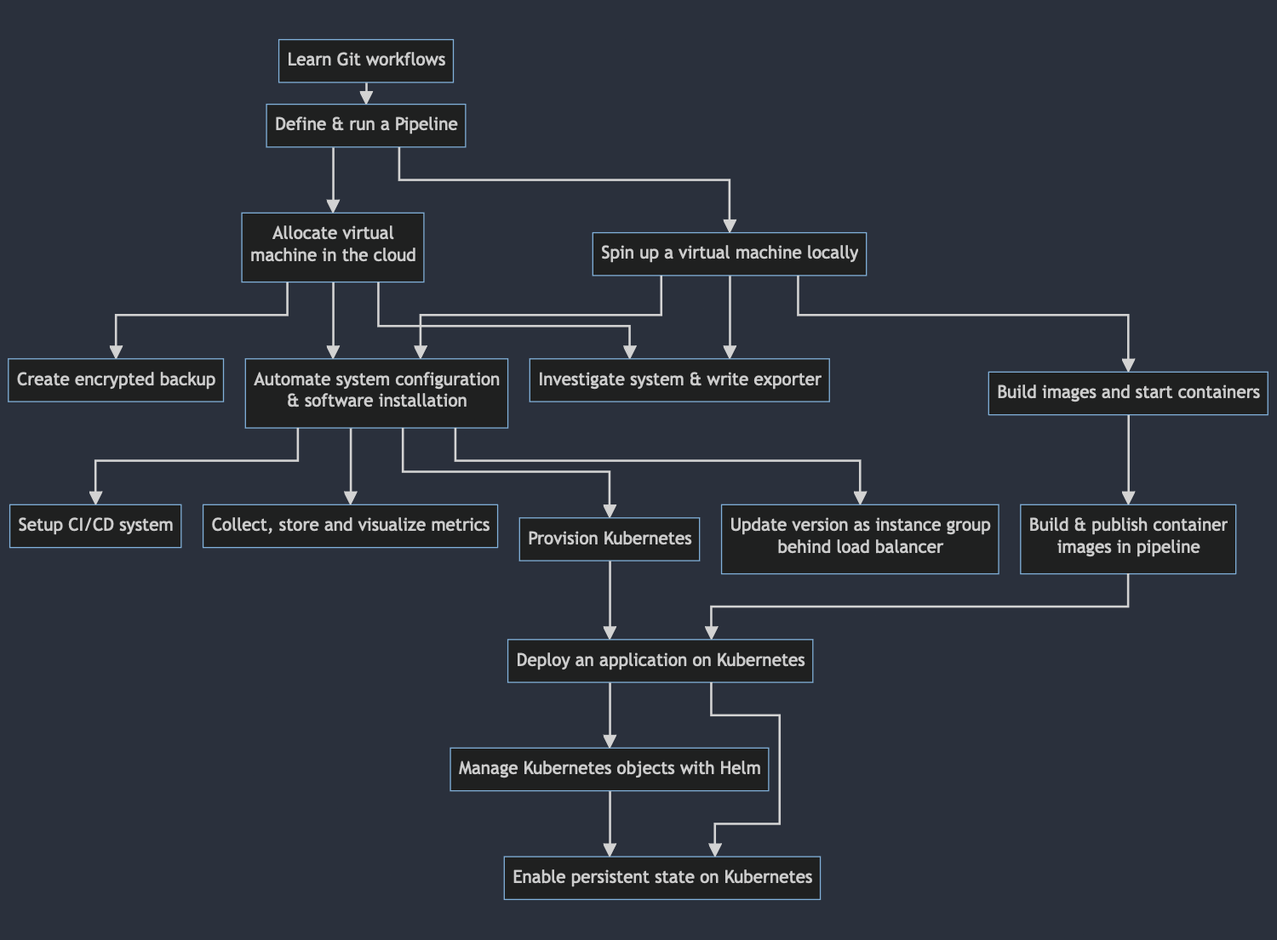
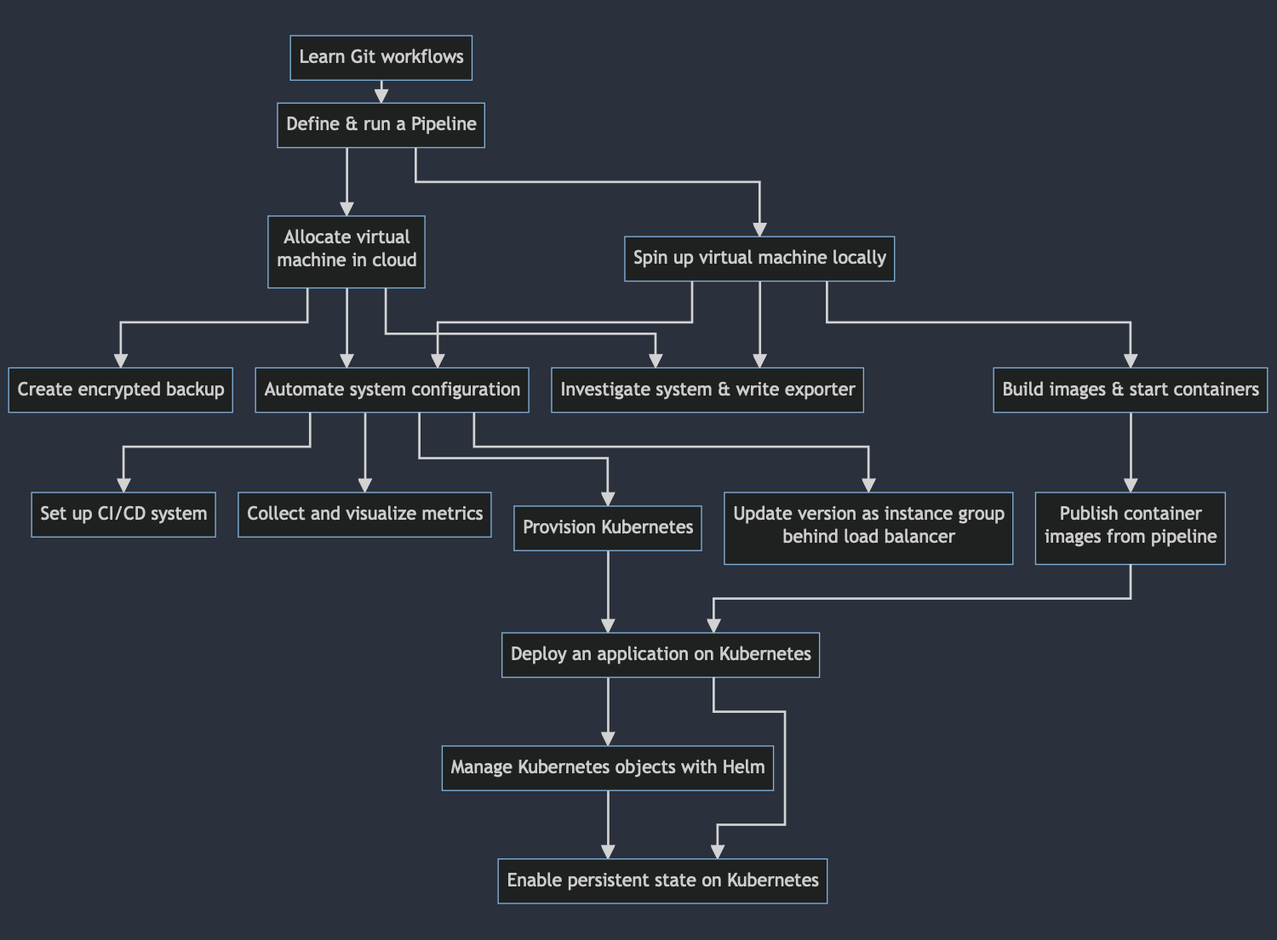
content: rename tutorial to more consistent names

Changed region(s): [[0.0, 0.0308, 1.0, 0.9846]]

diff --git a/content/lessons/_index.md b/content/lessons/_index.md
@@ -21,20 +21,20 @@ being discussed.
 {{< /hint >}}
 
 
-| Topic                                                                                               | Objectives                                                                                      | Technologies                                                            | Activities(s)                                                                                                                                                                                    |
-|-----------------------------------------------------------------------------------------------------|-------------------------------------------------------------------------------------------------|-------------------------------------------------------------------------|--------------------------------------------------------------------------------------------------------------------------------------------------------------------------------------------------|
-| Course Onboarding                                                                                   | Organizational Stuff, Expectation Management, Grading                                           | *N/A*                                                                   | 🗣 Sticky-notes session                                                                                                                                                                          |
-| [What is DevOps and what is it not?]({{< relref "./topics/what-is-devops" >}})                      | DevOps culture, Agile, Site Reliability Engineering                                             | *N/A*                                                                   | 💡 [Learn Git Branching](https://learngitbranching.js.org)                                                                                                                                       |
-| [DevOps Principles]({{< relref "./topics/devops-principles" >}})                                    | [Configuration, Infrastructure]-as-Code, Automation, Dependency Management, Software life cycle | *N/A*                                                                   | 🙌 Demonstrate [*showcase*](https://gitlab.bht-berlin.de/fb6-wp11-devops/showcase)                                                                                                               |
-| [Twelve-Factor App]({{< relref "./topics/twelve-factors" >}})                                       | Understand the 12 factors and how to satisfy them                                               | *N/A*                                                                   | 🗣 Assess Twelve-Factor compliance of an example app; 💡 [Install]({{< ref "/tutorials/install-tool-chain" >}})                                                                                  |
-| [Continuous Automation]({{< relref "./topics/continuous-automation" >}})                            | CI/CD, Triggers, GitOps                                                                         | Jenkins, GitLab, Github Actions                                         | 💡 [Define and run a pipeline]({{< ref "/tutorials/define-and-run-pipeline" >}})                                                                                                                 |
-| [Virtualization vs. Containerization]({{< relref "./topics/virtualization-vs-containerization" >}}) | Differences - similar patterns - usage, hypervisors, container engines, build tools             | Docker, Podman, Buildah, VirtualBox, QEMU, Packer                       | 💡 [Spin up a virtual machine locally]({{< ref "/tutorials/spin-up-virtual-machine-locally" >}})                                                                                                 |
-| [Cloud Infrastructure]({{< relref "./topics/cloud-infrastructure" >}})                              | What classifies as Infrastructure, Public vs. Private cloud, XaaS                               | Compute & Network & Storage; AWS, GCP, DigitalOcean                     | 💡 [Build a container image and start a container]({{< ref "/tutorials/build-container-image-and-start-container" >}})                                                                           |
-| [Infrastructure Allocation]({{< relref "./topics/infrastructure-allocation">}})                     | infrastructure life cycle, apply Infrastructure-as-Code                                         | OpenTofu/Terraform, Pulumi                                              | 💡 [Allocate and access a virtual machine in the cloud]({{< ref "/tutorials/allocate-machine-in-cloud" >}})                                                                                      |
-| [Configuration Management]({{< relref "./topics/configuration-management" >}})                      | Apply Config-as-Code, giving a machine its purpose                                              | Ansible                                                                 | 💡 [Automate service installation & configuration]({{< ref "/tutorials/automate-system-configuration" >}})                                                                                       |
-| [Deployment Strategies]({{< relref "./topics/deployment-strategies" >}})                            | Resilience, Zero-downtime deployment, Service Discovery, Load balancing                         | Nginx, consul, DNS                                                      | 💡 [Update an instance group of an app behind a load balancer]({{< ref "/tutorials/update-version-as-instance-group" >}})                                                                        |
-| [Container Orchestration]({{< relref "./topics/container-orchestration" >}})                        | Purpose, implementations, market, basic usage                                                   | Kubernetes                                                              | 💡 [Deploy an application on Kubernetes and make it available from the outside]({{< ref "/tutorials/become-familiar-with-kubernetes" >}})                                                        |
-| [Advanced Kubernetes]({{< relref "./topics/advanced-kubernetes" >}})                                | Architecture, Concepts & Features, Tooling                                                      | Helm                                                                    | 💡 [Deploy an application with Helm]({{< ref "/tutorials/deploy-workload-with-helm" >}}); 💡 [Provision Kubernetes]({{< ref "/tutorials/provision-kubernetes" >}})                               |
-| [Monitoring & Observability]({{< relref "./topics/monitoring-and-observability" >}})                | Logging, Metrics, Alerts, Tracing, System health, Exporter vs. Collector, push vs. pull         | Prometheus, Grafana, Alertmanager, EFK (Elasticsearch, Fluentd, Kibana) | 💡 [Collect & visualize metrics]({{< ref "/tutorials/collect-and-visualize-metrics" >}}); 💡 [Investigate system status & write an exporter]({{< ref "/tutorials/investigate-system-status" >}}) |
-| [Persistence & Backups]({{< relref "./topics/persistence-and-backups" >}})                          | distributed, storage, storage types, backup strategies                                          | AWS S3, NFS, Ceph                                                       | 💡 [Encrypt and store a backup offsite]({{< ref "/tutorials/create-encrypted-backup" >}})                                                                                                        |
-| [Dev-Security-Ops]({{< relref "./topics/dev-security-ops" >}})                                      | account types, secret & permission management, Identity Provider, 2-Factor-Auth                 | Sops, Vault, SSH, `.gitignore`                                          | *N/A*                                                                                                                                                                                            | 
+| Topic                                                                                               | Objectives                                                                                      | Technologies                                                            | Activities(s)                                                                                                                                                                                                                                                   |
+|-----------------------------------------------------------------------------------------------------|-------------------------------------------------------------------------------------------------|-------------------------------------------------------------------------|-----------------------------------------------------------------------------------------------------------------------------------------------------------------------------------------------------------------------------------------------------------------|
+| Course Onboarding                                                                                   | Organizational Stuff, Expectation Management, Grading                                           | *N/A*                                                                   | 🗣 Sticky notes session                                                                                                                                                                                                                                         |
+| [What is DevOps and what is it not?]({{< relref "./topics/what-is-devops" >}})                      | DevOps culture, Agile, Site Reliability Engineering                                             | *N/A*                                                                   | 💡 [Learn Git Branching](https://learngitbranching.js.org)                                                                                                                                                                                                      |
+| [DevOps Principles]({{< relref "./topics/devops-principles" >}})                                    | [Configuration, Infrastructure]-as-Code, Automation, Dependency Management, Software life cycle | *N/A*                                                                   | 🙌 Demonstrate [*showcase*](https://gitlab.bht-berlin.de/fb6-wp11-devops/showcase)                                                                                                                                                                              |
+| [Twelve-Factor App]({{< relref "./topics/twelve-factors" >}})                                       | Understand the 12 factors and how to satisfy them                                               | *N/A*                                                                   | 🗣 Assess Twelve-Factor compliance of an example app; 💡 [({{< page-title "/tutorials/install-tool-chain" >}}]({{< ref "/tutorials/install-tool-chain" >}})                                                                                                     |
+| [Continuous Automation]({{< relref "./topics/continuous-automation" >}})                            | CI/CD, Triggers, GitOps                                                                         | Jenkins, GitLab, Github Actions                                         | 💡 [{{< page-title "/tutorials/define-and-run-pipeline" >}}]({{< ref "/tutorials/define-and-run-pipeline" >}})                                                                                                                                                  |
+| [Virtualization vs. Containerization]({{< relref "./topics/virtualization-vs-containerization" >}}) | Differences - similar patterns - usage, hypervisors, container engines, build tools             | Docker, Podman, Buildah, VirtualBox, QEMU, Packer                       | 💡 [{{< page-title "/tutorials/spin-up-virtual-machine-locally" >}}y]({{< ref "/tutorials/spin-up-virtual-machine-locally" >}})                                                                                                                                 |
+| [Cloud Infrastructure]({{< relref "./topics/cloud-infrastructure" >}})                              | What classifies as Infrastructure, Public vs. Private cloud, XaaS                               | Compute & Network & Storage; AWS, GCP, DigitalOcean                     | 💡 [{{< page-title "/tutorials/build-images-and-start-containers" >}}]({{< ref "/tutorials/build-images-and-start-containers" >}})                                                                                                                              |
+| [Infrastructure Allocation]({{< relref "./topics/infrastructure-allocation">}})                     | infrastructure life cycle, apply Infrastructure-as-Code                                         | OpenTofu/Terraform, Pulumi                                              | 💡 [{{< page-title "/tutorials/allocate-virtual-machine-in-cloud" >}}]({{< ref "/tutorials/allocate-virtual-machine-in-cloud" >}})                                                                                                                              |
+| [Configuration Management]({{< relref "./topics/configuration-management" >}})                      | Apply Config-as-Code, giving a machine its purpose                                              | Ansible                                                                 | 💡 [{{< page-title "/tutorials/automate-system-configuration" >}}]({{< ref "/tutorials/automate-system-configuration" >}}); 💡 [{{< page-title "/tutorials/set-up-cicd-system" >}}]({{< ref "/tutorials/set-up-cicd-system" >}})                                |
+| [Deployment Strategies]({{< relref "./topics/deployment-strategies" >}})                            | Resilience, Zero-downtime deployment, Service Discovery, Load balancing                         | Nginx, consul, DNS                                                      | 💡 [{{< page-title "/tutorials/update-version-as-instance-group" >}}]({{< ref "/tutorials/update-version-as-instance-group" >}})                                                                                                                                |
+| [Container Orchestration]({{< relref "./topics/container-orchestration" >}})                        | Purpose, implementations, market, basic usage                                                   | Kubernetes                                                              | 💡 [{{< page-title "/tutorials/deploy-app-on-kubernetes" >}}]({{< ref "/tutorials/deploy-app-on-kubernetes" >}})                                                                                                                                                |
+| [Advanced Kubernetes]({{< relref "./topics/advanced-kubernetes" >}})                                | Architecture, Concepts & Features, Tooling                                                      | Helm                                                                    | 💡 [{{< page-title "/tutorials/manage-kubernetes-objects-with-helm" >}}]({{< ref "/tutorials/manage-kubernetes-objects-with-helm" >}}); 💡 [{{< page-title "/tutorials/provision-kubernetes" >}}]({{< ref "/tutorials/provision-kubernetes" >}})                |
+| [Monitoring & Observability]({{< relref "./topics/monitoring-and-observability" >}})                | Logging, Metrics, Alerts, Tracing, System health, Exporter vs. Collector, push vs. pull         | Prometheus, Grafana, Alertmanager, EFK (Elasticsearch, Fluentd, Kibana) | 💡 [{{< page-title "/tutorials/collect-and-visualize-metrics" >}}]({{< ref "/tutorials/collect-and-visualize-metrics" >}}); 💡 [{{< ref "/tutorials/investigate-system-and-write-exporter" >}}]({{< ref "/tutorials/investigate-system-and-write-exporter" >}}) |
+| [Persistence & Backups]({{< relref "./topics/persistence-and-backups" >}})                          | distributed, storage, storage types, backup strategies                                          | AWS S3, NFS, Ceph                                                       | 💡 [{{< page-title "/tutorials/create-encrypted-backup" >}}]({{< ref "/tutorials/create-encrypted-backup" >}}); 💡 [{{< page-title "/tutorials/persist-state-on-kubernetes" >}}]({{< ref "/tutorials/persist-state-on-kubernetes" >}})                          |
+| [Dev-Security-Ops]({{< relref "./topics/dev-security-ops" >}})                                      | account types, secret & permission management, Identity Provider, 2-Factor-Auth                 | Sops, Vault, SSH, `.gitignore`                                          | *N/A*                                                                                                                                                                                                                                                           | 

diff --git a/content/tutorials/manage-kubernetes-objects-with-helm.md b/content/tutorials/manage-kubernetes-objects-with-helm.md
@@ -1,9 +1,9 @@
 ---
-title: 'Deploy Kubernetes objects with Helm'
+title: 'Manage Kubernetes objects with Helm'
 ---
 
 
-Deploy Kubernetes objects with Helm
+Manage Kubernetes objects with Helm
 ===================================
 
 
@@ -17,7 +17,7 @@ Deploy Kubernetes objects with Helm
 ## Prerequisites
 
 * Tutorial: [{{< page-title "./update-version-as-instance-group" >}}]({{< relref "./update-version-as-instance-group" >}})
-* Tutorial: [{{< page-title "./become-familiar-with-kubernetes" >}}]({{< relref "./become-familiar-with-kubernetes" >}}) 
+* Tutorial: [{{< page-title "./deploy-app-on-kubernetes" >}}]({{< relref "./deploy-app-on-kubernetes" >}}) 
 * [Helm](https://helm.sh/docs/intro/install/) is installed on your workstation
 * [SOPS](https://github.com/mozilla/sops#download) is installed on your workstation (and optionally [GPG](https://www.gnupg.org/download/))
 * [Helm plugin to integrate SOPS](https://github.com/jkroepke/helm-secrets) is installed on your workstation
@@ -52,7 +52,7 @@ Deploy Kubernetes objects with Helm
 ## Solution: Edu cluster {id="solution-edu-cluster"}
 
 *Source code can be found
-[here](https://github.com/lucendio/lecture-devops-code/tree/master/tutorials/09_deploy-workload-with-helm/edu-cluster).*
+[here](https://github.com/lucendio/lecture-devops-code/tree/master/tutorials/manage-kubernetes-objects-with-helm/edu-cluster).*
 
 
 ### (1) Create a chart using an iterative approach   
@@ -210,12 +210,12 @@ configurable via Helm values if needed.
 ## Solution: Minikube {id="solution-minikube"}
 
 *Source code can be found
-[here](https://github.com/lucendio/lecture-devops-code/tree/master/tutorials/09_deploy-workload-with-helm/edu-cluster/minikube).*
+[here](https://github.com/lucendio/lecture-devops-code/tree/master/tutorials/manage-kubernetes-objects-with-helm/edu-cluster/minikube).*
 
 
 ### (0) Preparations
 
-Please refer to the [*Preparations* section of the previous tutorial]({{< relref "./become-familiar-with-kubernetes#0-prep-minikube" >}}).
+Please refer to the [*Preparations* section of the previous tutorial]({{< relref "./deploy-app-on-kubernetes#0-prep-minikube" >}}).
 
 
 ### (1) Create a chart using an iterative approach   

diff --git a/content/tutorials/automate-system-configuration.md b/content/tutorials/automate-system-configuration.md
@@ -3,8 +3,8 @@ title: 'Automate system configuration'
 ---
 
 
-Automate service installation and apply configuration to a machine
-==================================================================
+Automate system configuration and software installation
+=======================================================
 
 
 ## Objectives
@@ -19,7 +19,7 @@ Automate service installation and apply configuration to a machine
 * Configuration Management tool is installed (e.g. Ansible, but note [on Windows, it's only supported to run in WSL](https://docs.ansible.com/ansible/latest/user_guide/windows_faq.html#can-ansible-run-on-windows))
 * virtual machine with SSH access - either locally or in the cloud (see tutorials 
   [Spin up a virtual machine locally]({{< relref "./spin-up-virtual-machine-locally" >}})
-  or [Allocate a virtual machine in the cloud]({{< relref "./allocate-machine-in-cloud" >}}))
+  or [Allocate a virtual machine in the cloud]({{< relref "./allocate-virtual-machine-in-cloud" >}}))
 
 
 ## Tasks
@@ -40,12 +40,12 @@ Automate service installation and apply configuration to a machine
 
 *Please note that this solution uses [Ansible](https://docs.ansible.com/ansible/latest/installation_guide/)
 and a [local machine]({{< relref "./spin-up-virtual-machine-locally" >}}). Source code can be found
-[here](https://github.com/lucendio/lecture-devops-code/tree/master/tutorials/04_automate-system-configuration).*
+[here](https://github.com/lucendio/lecture-devops-code/tree/master/tutorials/automate-system-configuration).*
 
 
 ### (0) Preparations
 
-* create an SSH key pair, if necessary (see [this]({{< relref "./allocate-machine-in-cloud" >}}) tutorial for more
+* create an SSH key pair, if necessary (see [this]({{< relref "./allocate-virtual-machine-in-cloud" >}}) tutorial for more
   details)
 * spin up a virtual machine, if not already running
 * create and customize `ansible.cfg` if needed, e.g.:

diff --git a/content/tutorials/provision-kubernetes.md b/content/tutorials/provision-kubernetes.md
@@ -16,9 +16,9 @@ Provision Kubernetes
 
 ## Prerequisites
 
-* Tutorial: [{{< page-title "./allocate-machine-in-cloud" >}}]({{< relref "./allocate-machine-in-cloud" >}})
+* Tutorial: [{{< page-title "./allocate-virtual-machine-in-cloud" >}}]({{< relref "./allocate-virtual-machine-in-cloud" >}})
 * Tutorial: [{{< page-title "./automate-system-configuration" >}}]({{< relref "./automate-system-configuration" >}})
-* Tutorial: [{{< page-title "./become-familiar-with-kubernetes" >}}]({{< relref "./become-familiar-with-kubernetes" >}})
+* Tutorial: [{{< page-title "./deploy-app-on-kubernetes" >}}]({{< relref "./deploy-app-on-kubernetes" >}})
 
 ## Tasks
 
@@ -45,7 +45,7 @@ Provision Kubernetes
 
 *Please note that this solution makes use of [Kubespray](https://github.com/kubernetes-sigs/kubespray)
 and AWS. Source code can be found
-[here](https://github.com/lucendio/lecture-devops-code/tree/master/tutorials/10_provision-kubernetes).*
+[here](https://github.com/lucendio/lecture-devops-code/tree/master/tutorials/provision-kubernetes).*
 
 
 ### (0) Preparations
@@ -91,7 +91,7 @@ chmod 600 ./.ssh/operator*
 tofu init
 ```
 {{< hint >}}
-Please refer to tutorials like [*Allocate a virtual machine in the cloud*]({{< relref "./allocate-machine-in-cloud" >}})
+Please refer to tutorials like [*Allocate a virtual machine in the cloud*]({{< relref "./allocate-virtual-machine-in-cloud" >}})
 for details on how to manage infrastructure resources with OpenTofu.
 {{< /hint >}}
 

diff --git a/content/tutorials/deploy-app-on-kubernetes.md b/content/tutorials/deploy-app-on-kubernetes.md
@@ -1,9 +1,9 @@
 ---
-title: 'Become familiar with Kubernetes'
+title: 'Deploy app on Kubernetes'
 ---
 
-Become familiar with Kubernetes
-===============================
+Deploy an app on Kubernetes and make it accessible to the outside
+=================================================================
 
 
 ## Objectives
@@ -53,7 +53,7 @@ __For more tutorials, please refer to the [official documentation](https://kuber
 *Please note that this solution is loosely based on a set of tasks written in 
 the [official documentation](https://kubernetes.io/docs/tasks/). Source code
 can be found
-[here](https://github.com/lucendio/lecture-devops-code/tree/master/tutorials/08_become-familiar-with-kubernetes/edu-cluster).*
+[here](https://github.com/lucendio/lecture-devops-code/tree/master/tutorials/deploy-app-on-kubernetes/edu-cluster).*
 
 
 ### (0) Preparations {id="0-prep-edu-cluster"}
@@ -265,7 +265,7 @@ which will then delete all associated objects.
 *Please note that this solution is loosely based on a set of tasks written in 
 the [official documentation](https://kubernetes.io/docs/tasks/). Source code
 can be found
-[here](https://github.com/lucendio/lecture-devops-code/tree/master/tutorials/08_become-familiar-with-kubernetes/minikube).*
+[here](https://github.com/lucendio/lecture-devops-code/tree/master/tutorials/deploy-app-on-kubernetes/minikube).*
 
 
 ### (0) Preparations {id="0-prep-minikube"}

diff --git a/content/tutorials/publish-container-images-from-pipeline.md b/content/tutorials/publish-container-images-from-pipeline.md
@@ -1,10 +1,10 @@
 ---
-title: 'Publish a container image from CI/CD'
+title: 'Publish container images from pipeline'
 ---
 
 
-Build & publish a container image from CI/CD
-============================================
+Build & publish a container image from CI/CD pipeline
+=====================================================
 
 
 ## Objectives
@@ -15,8 +15,8 @@ Build & publish a container image from CI/CD
 
 ## Prerequisites
 
-* Tutorial: [Define & run a pipeline]({{< relref "./define-and-run-pipeline" >}})
-* Tutorial: [Build a container image & start a container]({{< relref "./build-container-image-and-start-container" >}})
+* Tutorial: [{{< page-title "./define-and-run-pipeline" >}}]({{< relref "./define-and-run-pipeline" >}})
+* Tutorial: [{{< page-title "./build-images-and-start-containers" >}}]({{< relref "./build-images-and-start-containers" >}})
 
 
 ## Remarks
@@ -48,7 +48,7 @@ Depending on the CI/CD agent, you may face the docker-in-docker dilemma (see las
 
 *Please note that this solution utilizes the automation platform GitLab. Source code
 can be found
-[here](https://github.com/lucendio/lecture-devops-code/tree/master/tutorials/publish-container-image-from-pipeline).*
+[here](https://github.com/lucendio/lecture-devops-code/tree/master/tutorials/publish-container-images-from-pipeline).*
 
 
 ### (0) Preparations

diff --git a/content/tutorials/_index.md b/content/tutorials/_index.md
@@ -51,31 +51,30 @@ and resources.
 flowchart TB
     1[Learn Git workflows]
     2[Define & run a Pipeline]
-    3[Spin up a virtual machine locally]
-    4[Build images and start containers]
+    3[Spin up virtual machine locally]
+    4[Build images & start containers]
     5[
         Allocate virtual
-        machine in the cloud
+        machine in cloud
     ]
     6[
         Automate system configuration
-        & software installation
     ]
-    7[Setup CI/CD system]
+    7[Set up CI/CD system]
     8[
         Update version as instance group
         behind load balancer
     ]
     9[
-        Build & publish container
-        images in pipeline
+        Publish container
+        images from pipeline
     ]
     10[Provision Kubernetes]
     11[Deploy an application on Kubernetes]
     12[Manage Kubernetes objects with Helm]
-    13[Collect, store and visualize metrics]
+    13[Collect and visualize metrics]
     14[Investigate system & write exporter]
-    15[Enable persistent state on Kubernetes]
+    15[Persist state on Kubernetes]
     16[Create encrypted backup]
     
     1 --> 2

diff --git a/content/tutorials/set-up-cicd-system.md b/content/tutorials/set-up-cicd-system.md
@@ -1,5 +1,5 @@
 --- 
-title: 'Install & set up a CI/CD system'
+title: 'Set up CI/CD system'
 ---
 
 
@@ -46,7 +46,7 @@ on [Docker & JcaC](https://www.digitalocean.com/community/tutorials/how-to-autom
 
 *Please note that this solution is based on a local approach utilizing Vagrant and
 reusing an Ansible Role. Source code can be found
-[here](https://github.com/lucendio/lecture-devops-code/tree/master/tutorials/06_set-up-cicd-system)*
+[here](https://github.com/lucendio/lecture-devops-code/tree/master/tutorials/set-up-cicd-system)*
 
 
 ### (0) Preparations
@@ -56,7 +56,7 @@ tutorials and take your pick - local (Vagrant) or remote (AWS).
 
 Please note, that the
 [`Vagrantfile`](https://github.com/lucendio/lecture-devops-code/blob/master/tutorials/06_set-up-cicd-system/Vagrantfile)
-in [this folder](https://github.com/lucendio/lecture-devops-code/tree/master/tutorials/06_set-up-cicd-system)
+in [this folder](https://github.com/lucendio/lecture-devops-code/tree/master/tutorials/set-up-cicd-system)
 requires an additional plugin to be installed:
 
 ```bash

diff --git a/content/tutorials/spin-up-virtual-machine-locally.md b/content/tutorials/spin-up-virtual-machine-locally.md
@@ -1,5 +1,5 @@
 ---
-title: 'Spin up a virtual machine locally'
+title: 'Spin up virtual machine locally'
 ---
 
 
@@ -42,7 +42,7 @@ mentioned platforms, try [QEMU](https://www.qemu.org/download/) or [UTM](https:/
 
 ## Solution: Vagrant
 
-*Source code can be found [here](https://github.com/lucendio/lecture-devops-code/tree/master/tutorials/02_spin-up-virtual-mcachine-locally/vagrant)*
+*Source code can be found [here](https://github.com/lucendio/lecture-devops-code/tree/master/tutorials/spin-up-virtual-machine-locally/vagrant)*
 
 
 ### (1) Start a virtual machine with `vagrant`
@@ -143,7 +143,7 @@ Hello, World!
 
 ## Solution: QEMU
 
-*Source code can be found [here](https://github.com/lucendio/lecture-devops-code/tree/master/tutorials/02_spin-up-virtual-mcachine-locally/qemu)*
+*Source code can be found [here](https://github.com/lucendio/lecture-devops-code/tree/master/tutorials/spin-up-virtual-machine-locally/qemu)*
 
 
 ### (1) Start a virtual machine with `qemu` and connect via SSH

diff --git a/content/tutorials/allocate-virtual-machine-in-cloud.md b/content/tutorials/allocate-virtual-machine-in-cloud.md
@@ -1,5 +1,5 @@
 ---
-title: 'Allocate a virtual machine in the cloud'
+title: 'Allocate virtual machine in cloud'
 
 TODO:
   - solution with Pulumi
@@ -54,7 +54,7 @@ Allocate a virtual machine in the cloud
 ## Solution: AWS
 
 *Source code can be found
-[here](https://github.com/lucendio/lecture-devops-code/tree/master/tutorials/03_allocate-machine-in-cloud/aws).*
+[here](https://github.com/lucendio/lecture-devops-code/tree/master/tutorials/allocate-virtual-machine-in-cloud/aws).*
 
 
 ### (2) Set up cloud provider and initialize the OpenTofu root module
@@ -162,7 +162,7 @@ tofu destroy
 ## Solution: GCP
 
 *Source code can be found
-[here](https://github.com/lucendio/lecture-devops-code/tree/master/tutorials/03_allocate-machine-in-cloud/gcp).*
+[here](https://github.com/lucendio/lecture-devops-code/tree/master/tutorials/allocate-virtual-machine-in-cloud/gcp).*
 
 
 ### (2) Set up cloud provider and initialize the OpenTofu root module

diff --git a/content/tutorials/collect-and-visualize-metrics.md b/content/tutorials/collect-and-visualize-metrics.md
@@ -1,5 +1,5 @@
 ---
-title: 'Collect, store, and visualize metrics'
+title: 'Collect & visualize metrics'
 ---
 
 
@@ -17,9 +17,9 @@ Expose, collect, store, and visualize metrics
 ## Prerequisites
 
 * Tutorial: [{{< page-title "./spin-up-virtual-machine-locally" >}}]({{< relref "./spin-up-virtual-machine-locally" >}})
-  or [{{< page-title "./allocate-machine-in-cloud" >}}]({{< relref "./allocate-machine-in-cloud" >}})
+  or [{{< page-title "./allocate-virtual-machine-in-cloud" >}}]({{< relref "./allocate-virtual-machine-in-cloud" >}})
 * Tutorial: [{{< page-title "./automate-system-configuration" >}}]({{< relref "./automate-system-configuration" >}})
-  or [{{< page-title "./deploy-workload-with-helm" >}}]({{< relref "./deploy-workload-with-helm" >}})
+  or [{{< page-title "./deploy-workload-with-helm" >}}]({{< relref "./manage-kubernetes-objects-with-helm" >}})
 
 
 ## Remarks

diff --git a/content/tutorials/update-version-as-instance-group.md b/content/tutorials/update-version-as-instance-group.md
@@ -1,10 +1,10 @@
 ---
-title: 'Deploy a new version as an instance group'
+title: 'Update version as instance group'
 ---
 
 
-Deploy a new version as an instance group
-=========================================
+Deploy a new version as an instance group behind a load balancer
+================================================================
 
 
 ## Objectives
@@ -63,7 +63,7 @@ machine, but make sure that only the LB is exposed to the "outside world".
 builds on top of the tutorial about
 [automating system configuration]({{< relref "./automate-system-configuration" >}}).
 Source code can be found
-[here](https://github.com/lucendio/lecture-devops-code/tree/master/tutorials/07_update-version-as-instance-group/local).*
+[here](https://github.com/lucendio/lecture-devops-code/tree/master/tutorials/update-version-as-instance-group/local).*
 
 
 ### (0) Preparations
